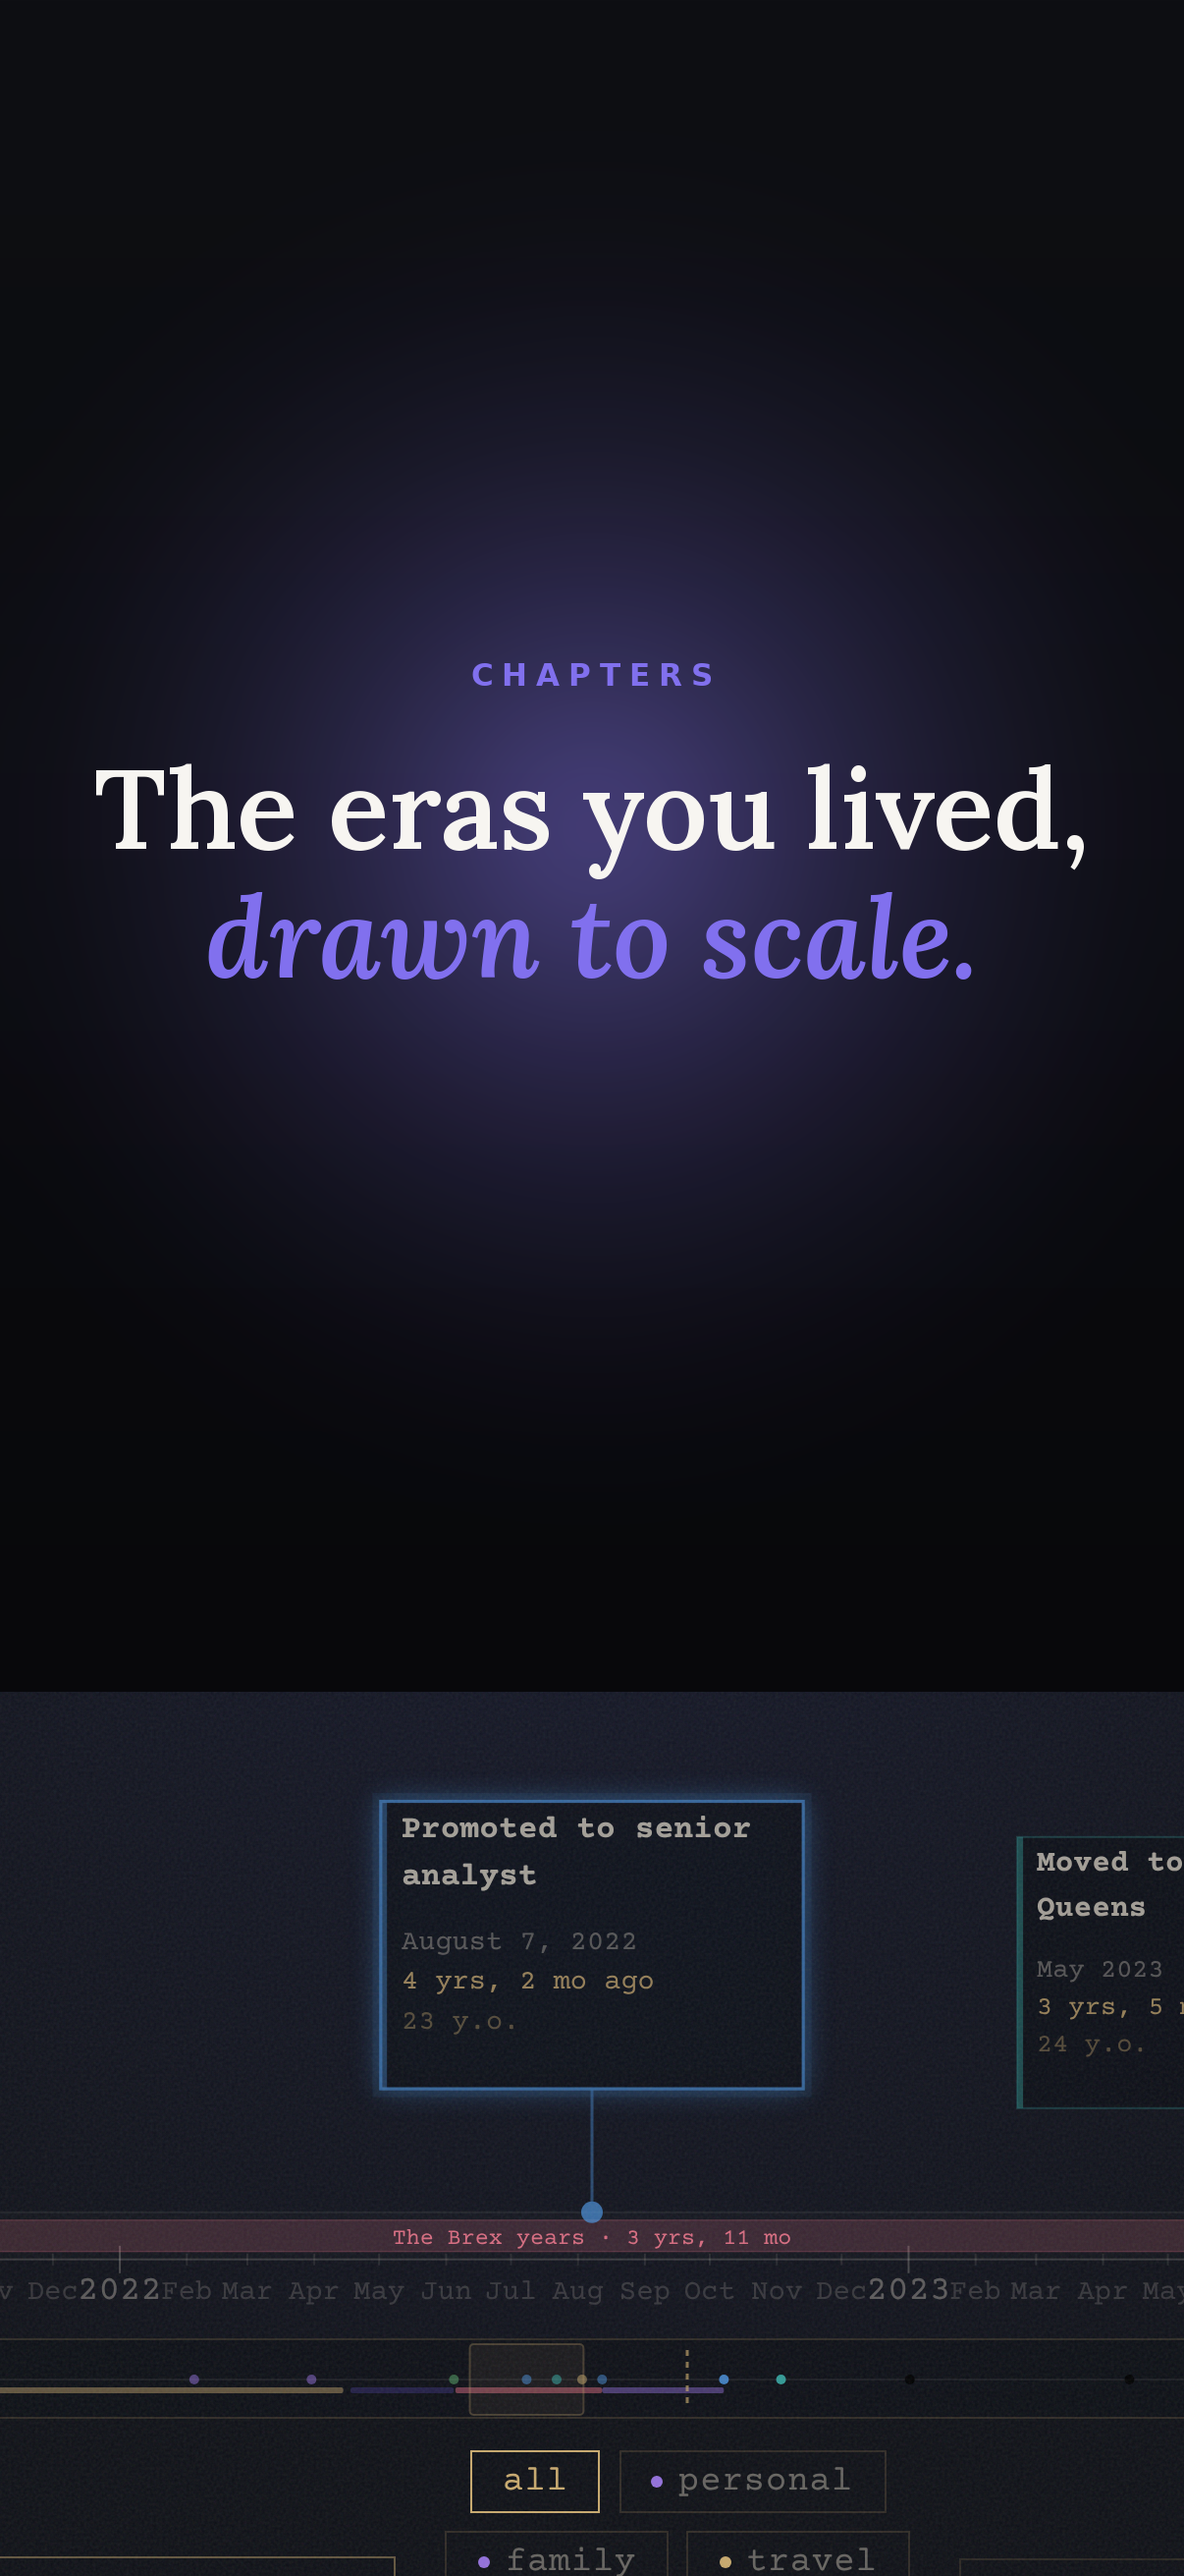
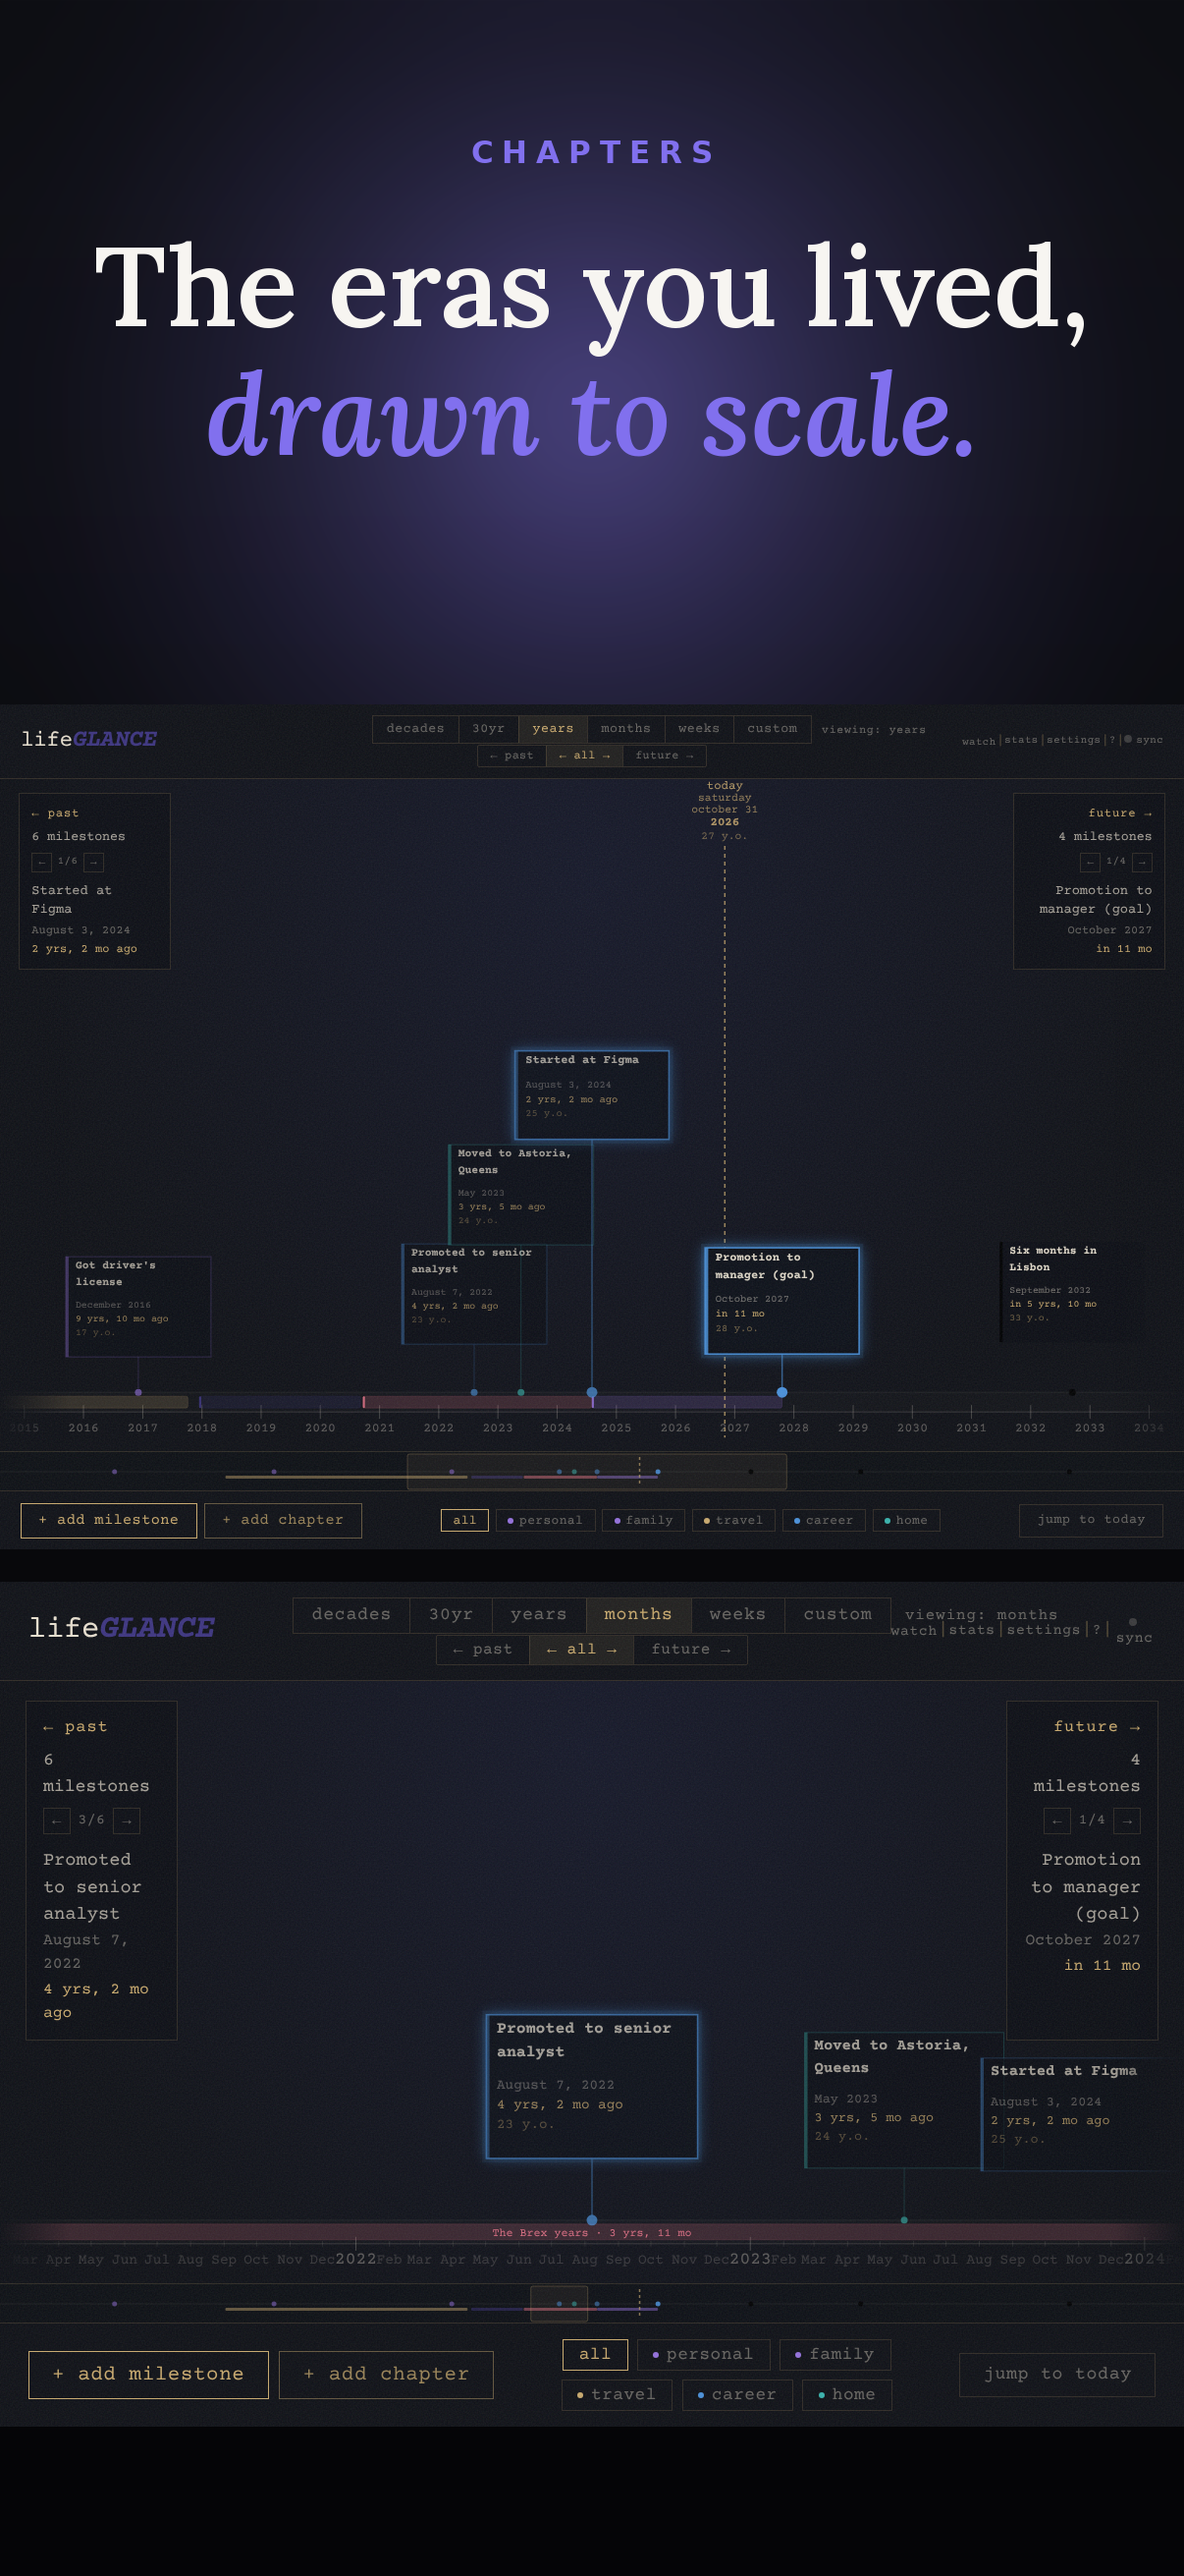
Shots 1 and 2: back to two stacked panes, with split seeds
The single full-height pane was the wrong call and the frames looked it. A
compact-layout pane caps near 900px, so one pane left most of the canvas as
void; clearing the cap instead centres the axis and a sparse timeline hugs it,
leaving the PANE empty. Two stacked landscape panes fill a portrait canvas,
which is why the rest of the set is built that way.

Single-pane was a hypothesis about why cards collided. It was wrong — the
collisions were seed density, and the reseed is what fixed them, so the goal
behind that instruction is met either way.

Shots 1 and 2 now take different seeds, because they want opposite things.
Shot 1 spans sixty years, where a card covers roughly seven years of axis, so
its milestones have to be at least that far apart: eight, from 1999 to 2049.
Shot 2's lower pane wants the opposite, a tight run sitting on one era, so it
gets those eight plus the Brex-era cluster. Shot 1's own close-up pane takes
the cluster seed too — a seed spread for a sixty-year view has nothing inside
an 18-month window.

Also abandoned: a magnified crop of the chapter band for shot 2. Every window
that held the ribbon either clipped the card titles above it or dragged in the
footer chrome below, because compact layout parks all three within a couple of
hundred pixels. Zooming to months does the same job — a ribbon only draws its
name and duration when the bar is wide enough — without the crop.

Shots 3-7 remain untouched and are verified identical.
[…]

diff --git a/scripts/compose-apple-frames.py b/scripts/compose-apple-frames.py
@@ -166,15 +166,20 @@ SHOTS = [
     # Shots 1 and 2 are a single full-height pane. Stacking two panes gave each
     # half the canvas height, which halved the lanes and was the direct cause of
     # the card collisions in these two frames.
-    dict(kind="iphone", out="iphone-dynamic-island/01-decades.png", panes=["iphone/01a"], full=True,
+    dict(kind="iphone", out="iphone-dynamic-island/01-decades.png",
+         panes=["iphone/01a", "iphone/01b"],
          eyebrow="DECADES TO WEEKS", l1="See your whole life,", l2="at a glance."),
-    # Cropped into the 2x capture at 1:1, which doubles the band's size without
-    # resampling: compact layout parks the axis near the foot of the pane, so
-    # uncropped the ribbon is a strip along the bottom under a half-empty pane.
-    # The crop drops the empty head and the footer chrome and leaves the run of
-    # milestones sitting on their labelled era, which is the caption's claim.
-    dict(kind="iphone", out="iphone-dynamic-island/02-chapters.png", panes=["iphone/02a"], full=True,
-         crop=(0.25, 0.75, 0.38, 0.88),
+    # Upper pane: the eras across the timeline, drawn to their real lengths.
+    # Lower pane: zoomed to months, where a ribbon is wide enough to carry its
+    # name and duration, with the milestones it contains sitting on it. The
+    # pair is the caption — the scale, then one era at readable size.
+    #
+    # A magnified crop of the band was tried here and abandoned: every window
+    # that held the ribbon also clipped the card titles above it or dragged in
+    # the footer chrome below, because compact layout parks all three within a
+    # couple of hundred pixels of each other.
+    dict(kind="iphone", out="iphone-dynamic-island/02-chapters.png",
+         panes=["iphone/02a", "iphone/02b"],
          eyebrow="CHAPTERS", l1="The eras you lived,", l2="drawn to scale."),
     dict(kind="iphone", out="iphone-dynamic-island/03-future.png", panes=["iphone/03a", "iphone/03b"],
          eyebrow="THE FUTURE HALF", l1="Half your timeline", l2="hasn't happened yet."),
@@ -192,8 +197,9 @@ SHOTS = [
 
 
 def compose_iphone(shot, pane_dir, out_path):
-    panes = [fit_width(pane_dir / f"{p}.png", IPHONE_W, shot.get("crop"))
-             for p in shot["panes"]]
+    crops = shot.get("crops") or [None] * len(shot["panes"])
+    panes = [fit_width(pane_dir / f"{p}.png", IPHONE_W, c)
+             for p, c in zip(shot["panes"], crops)]
     block_h = sum(p.height for p in panes) + PANE_GAP * (len(panes) - 1)
 
     if shot.get("full"):
